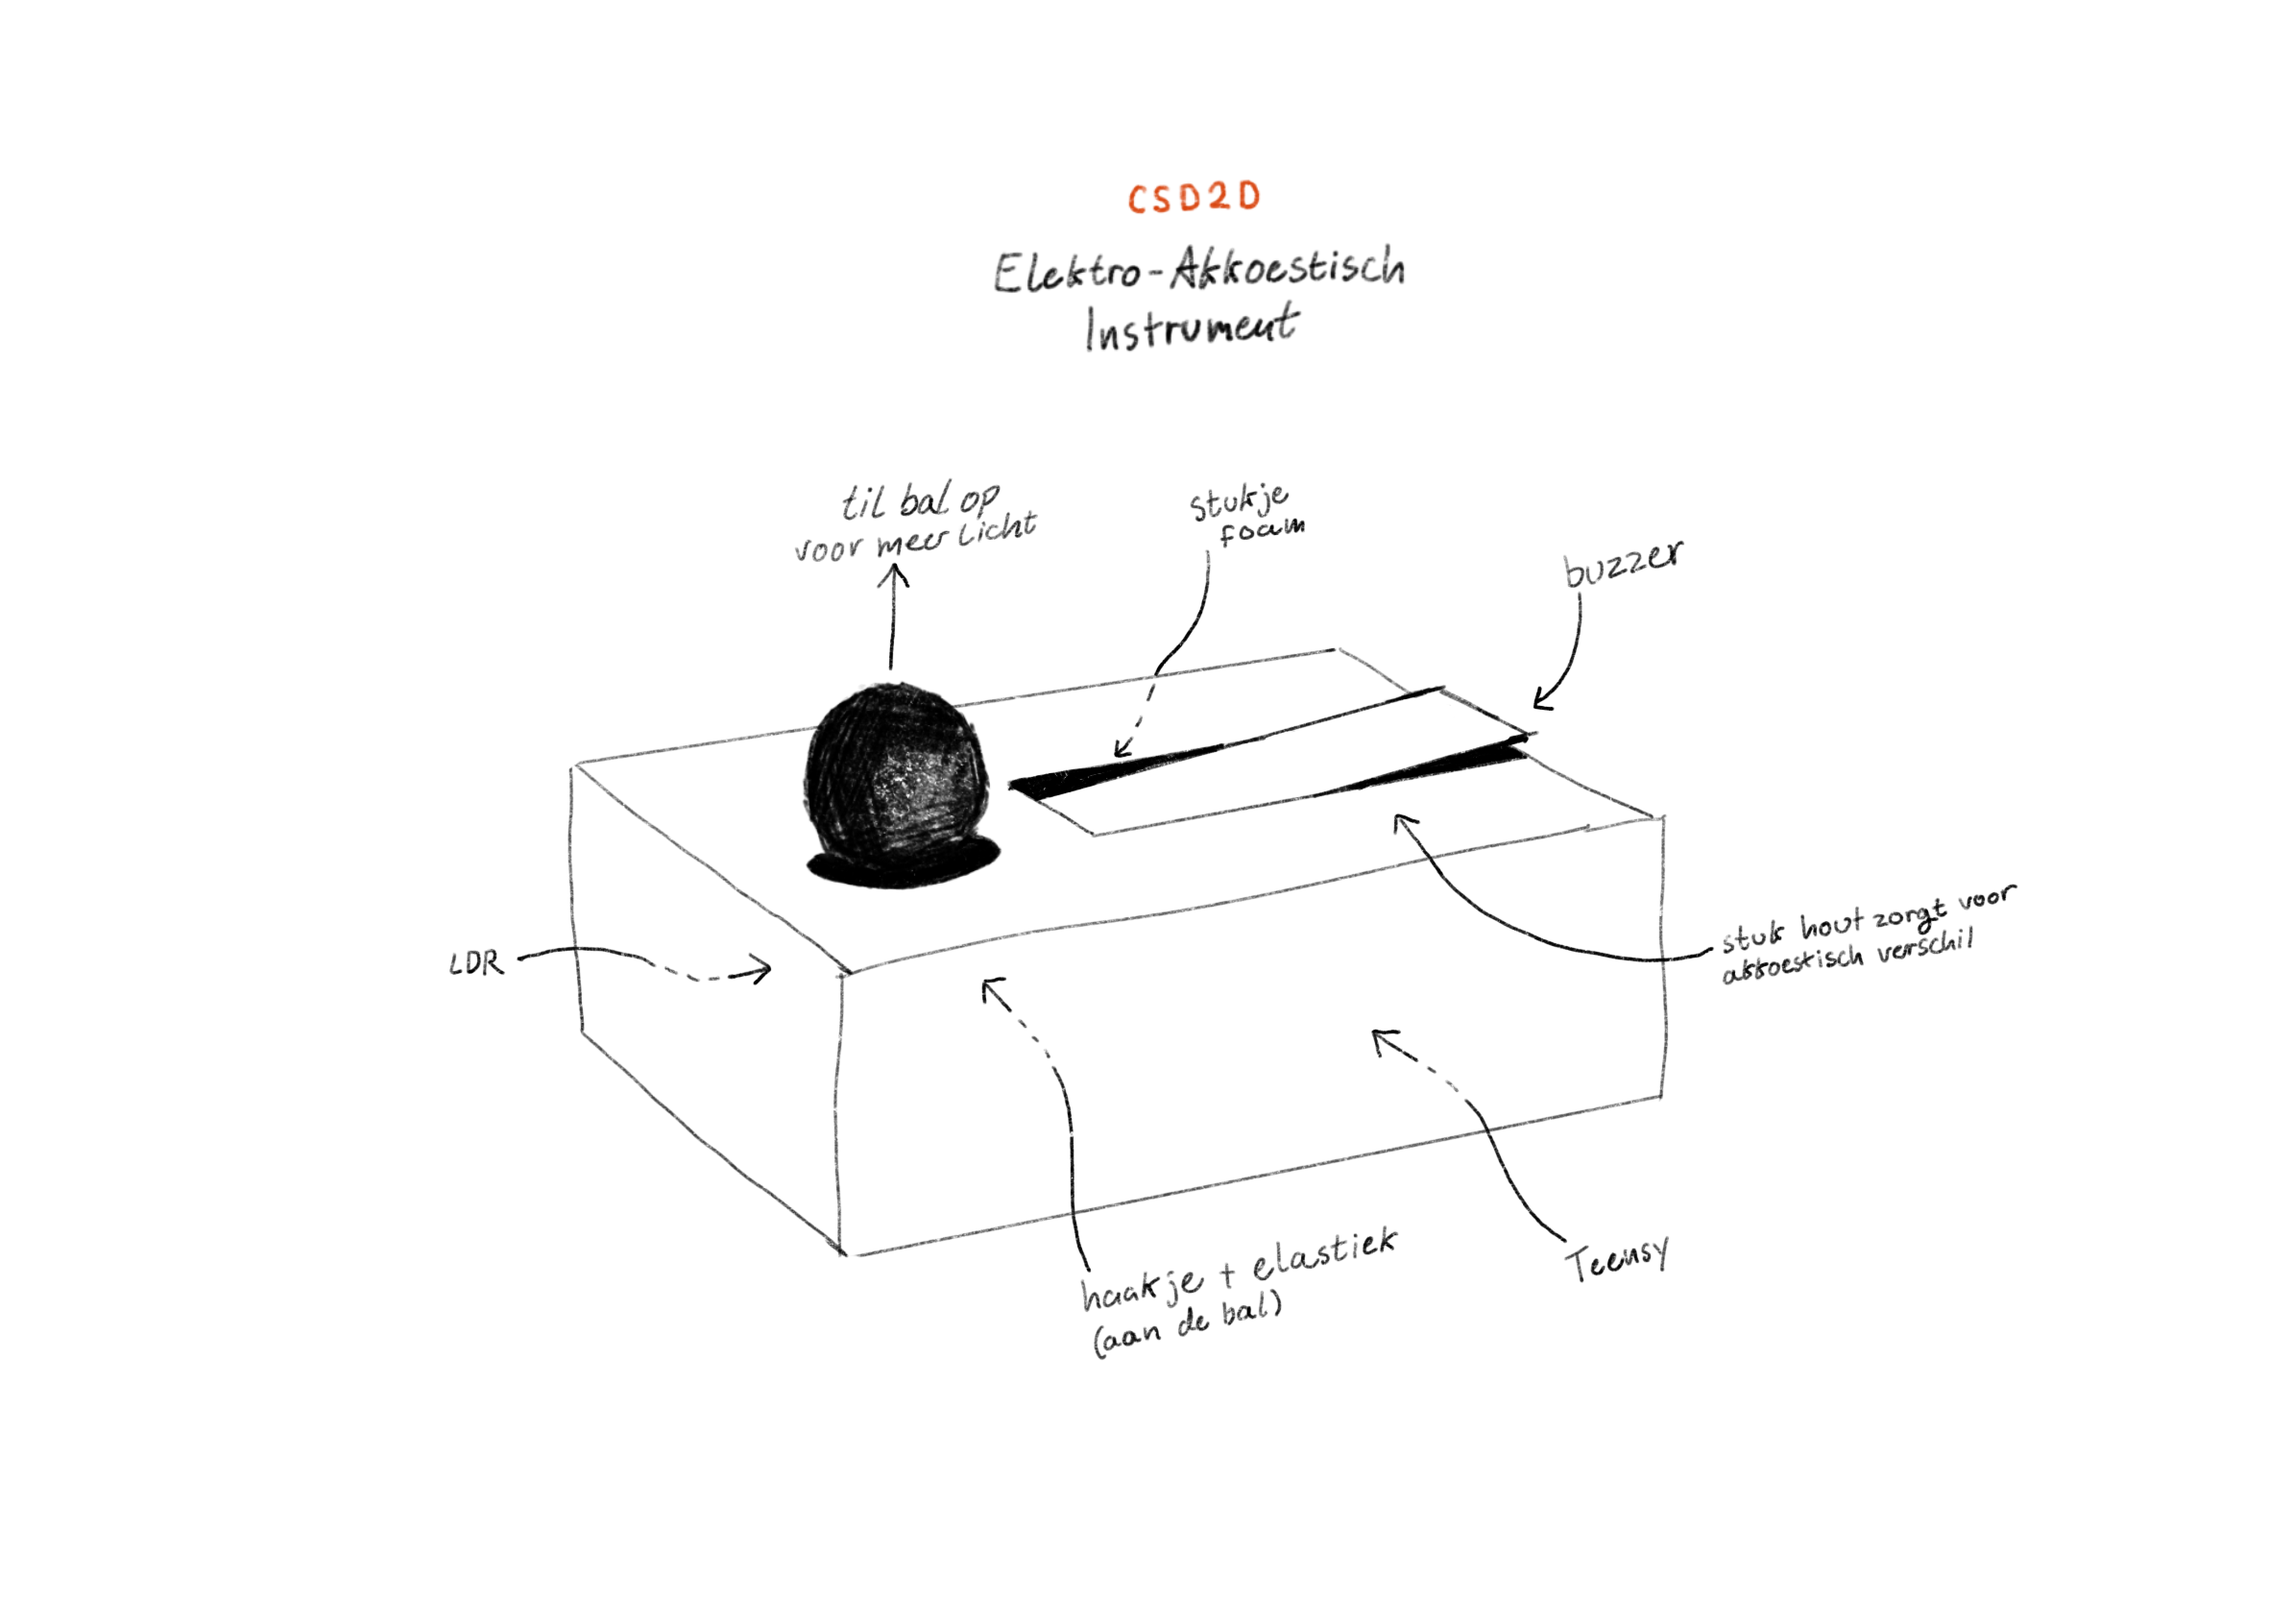
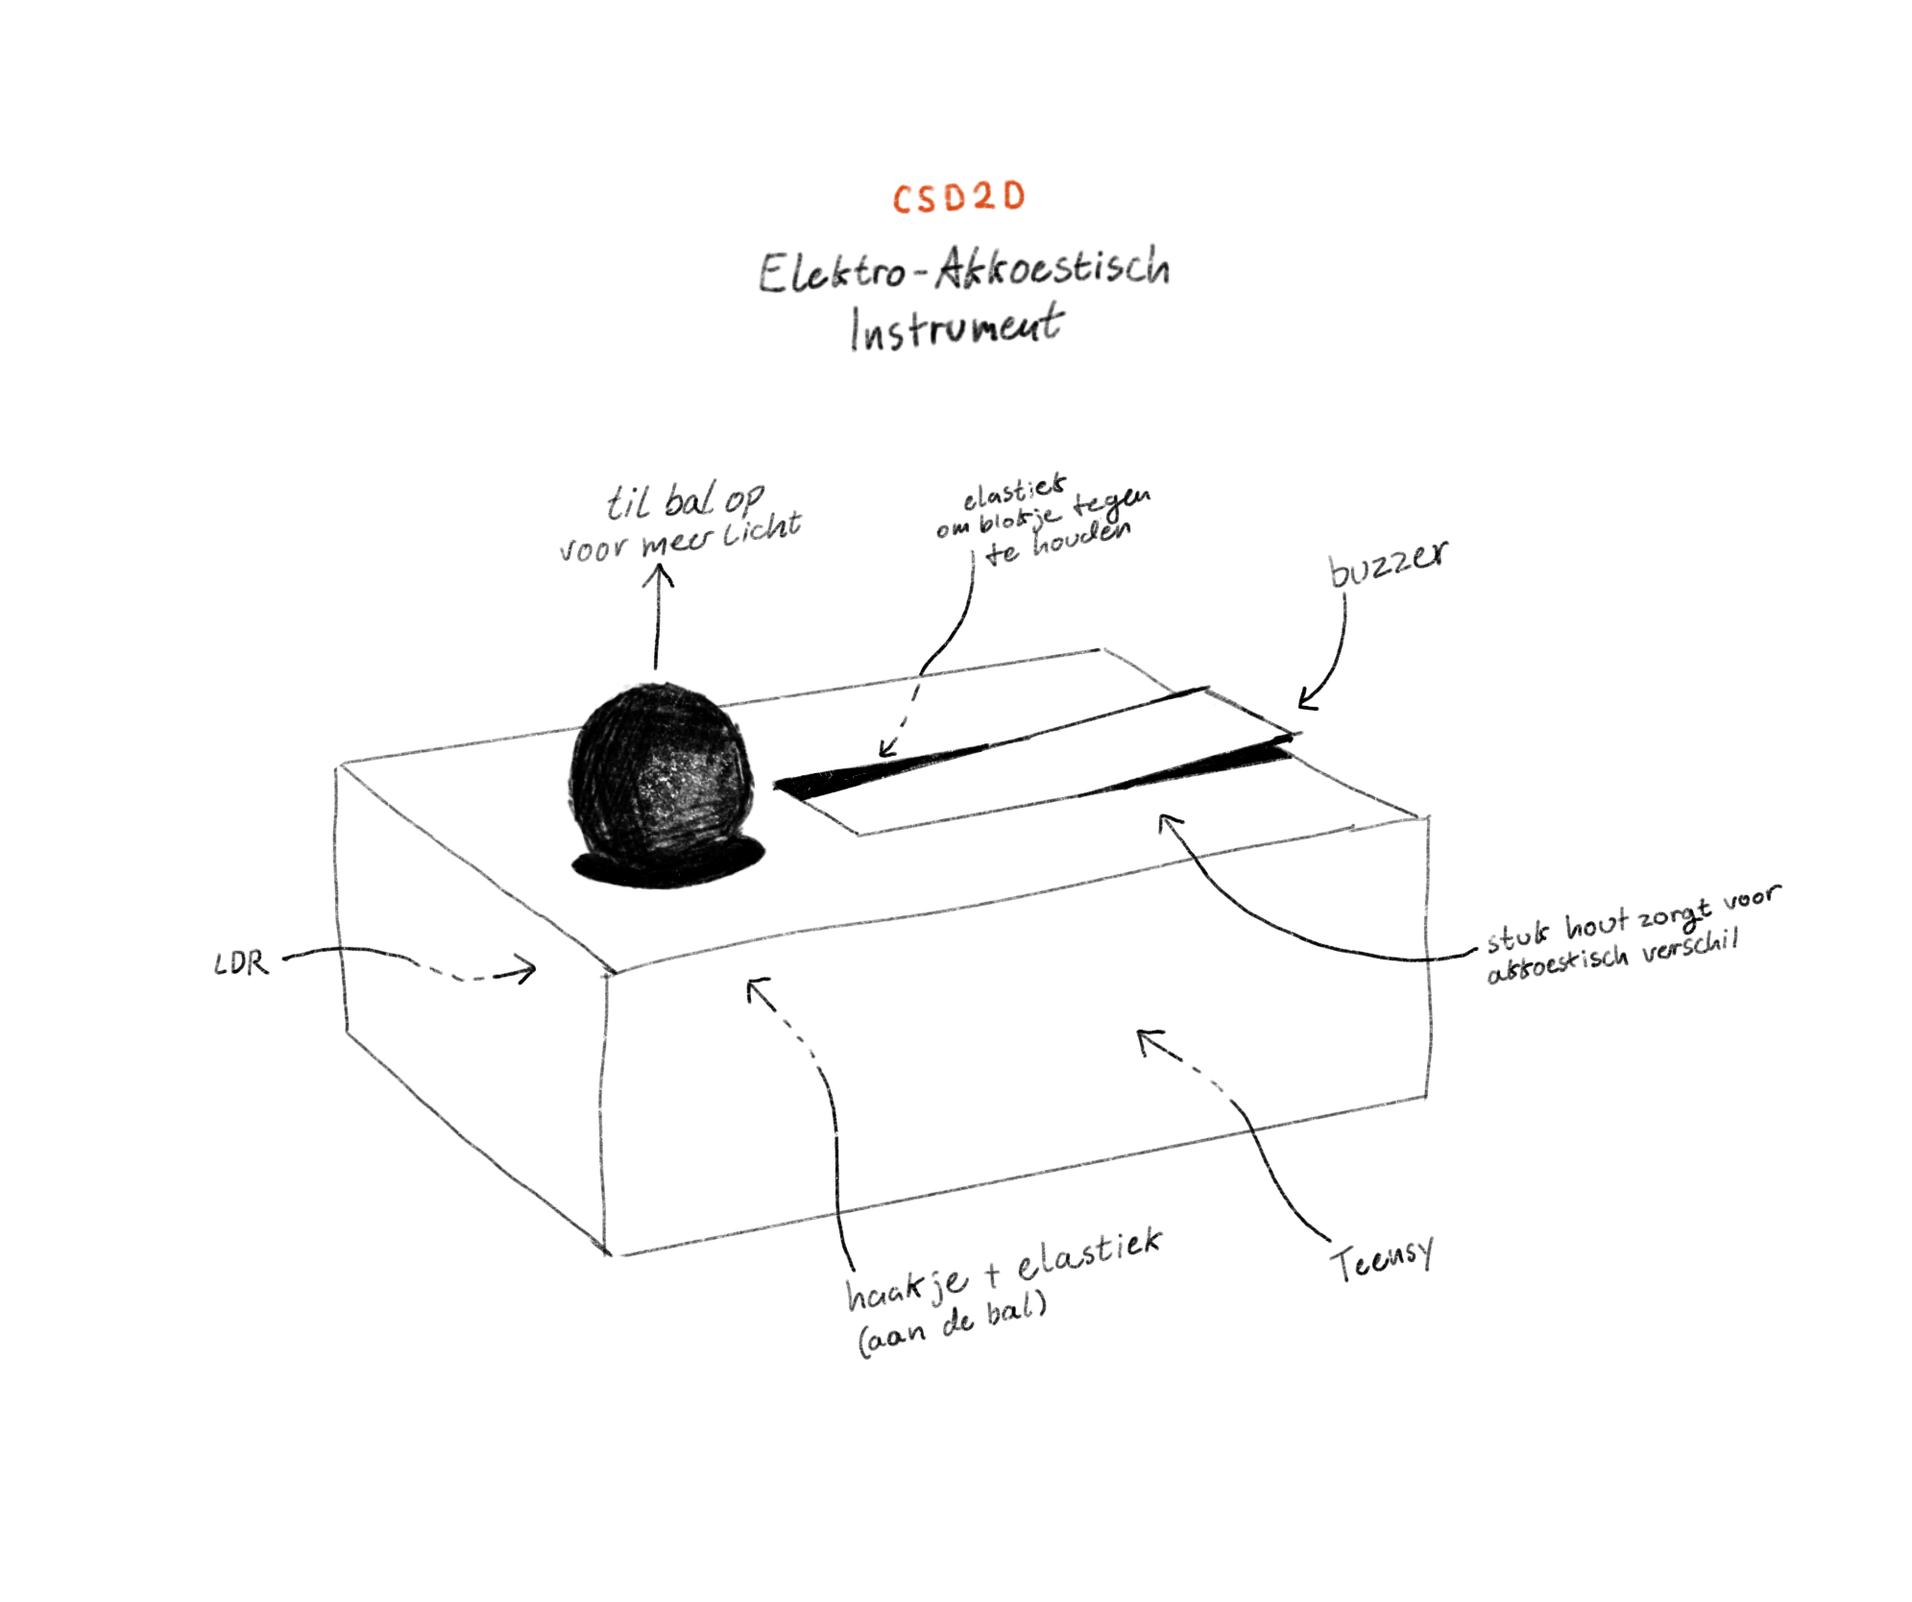
added images and impoved docs readme

diff --git a/CSD2D/Elektro-Elastisch/README.md b/CSD2D/Elektro-Elastisch/README.md
@@ -1,9 +1,8 @@
-# Elekro-Elastisch Instrument 
+![Main Image](docs/hero.jpg)
 > Voor de Elektro-Akkoestische opdracht voor CSD2D
 
-![Schets](docs/schets.png)
-
 ## Concept
+![Schets](docs/schets.png)
 Het doel van dit concept is uitzoeken hoe ik zo veel mogelijk interactie en verschillen ik kon halen uit 2 onderdelen: 
 * een piezo buzzer (zo'n iritant speakertje dat in rookalarmen zit)
 * een ldr (als bespeelbare input)
@@ -16,6 +15,15 @@ Ik merkte dat door een blokje hout op verschillende afstanden te houden van de b
 
 Om een interessante manier van interactie te creëeren besloot ik een houten bal aan elastiek te koppelen, door deze op te tillen valt er meer licht in het doosje en registreerd de LDR een hogere waarde.
 
+![Buzzer](docs/photos/buzzer.jpg)
+
 Ik heb een soort hefboom gemaakt van een plankje hout en 2 stukken elastiek. Wanneer je deze indrukt, komt de andere kant van het plankje los van de buzzer waardoor de klank van de buzzer verranderd.
 
 Het geluid dat het hout maakt als je de bal laat vallen of als je de 'hefboom' indrukt voegt een percussief element aan het instrument toe.
+
+![Binnenkant](docs/photos/inside.jpg)
+
+Voor de uitvoering heb ik een klein breadboardje gebruikt met losse draadje die naar de buzzer en LDR lopen.
+De code die op de teensy draait is redelijk simpel, zie: `elektrisch_elastisch.ino`. Maar deze opdracht is een soort van test van eenvoud geworden, waarbij ik met zo min mogelijk snufjes, toch interessante speelmethodes en geluiden kon maken.
+
+Ik denk wel dat dat is gelukt, het is in ieder geval 'interessant'.
